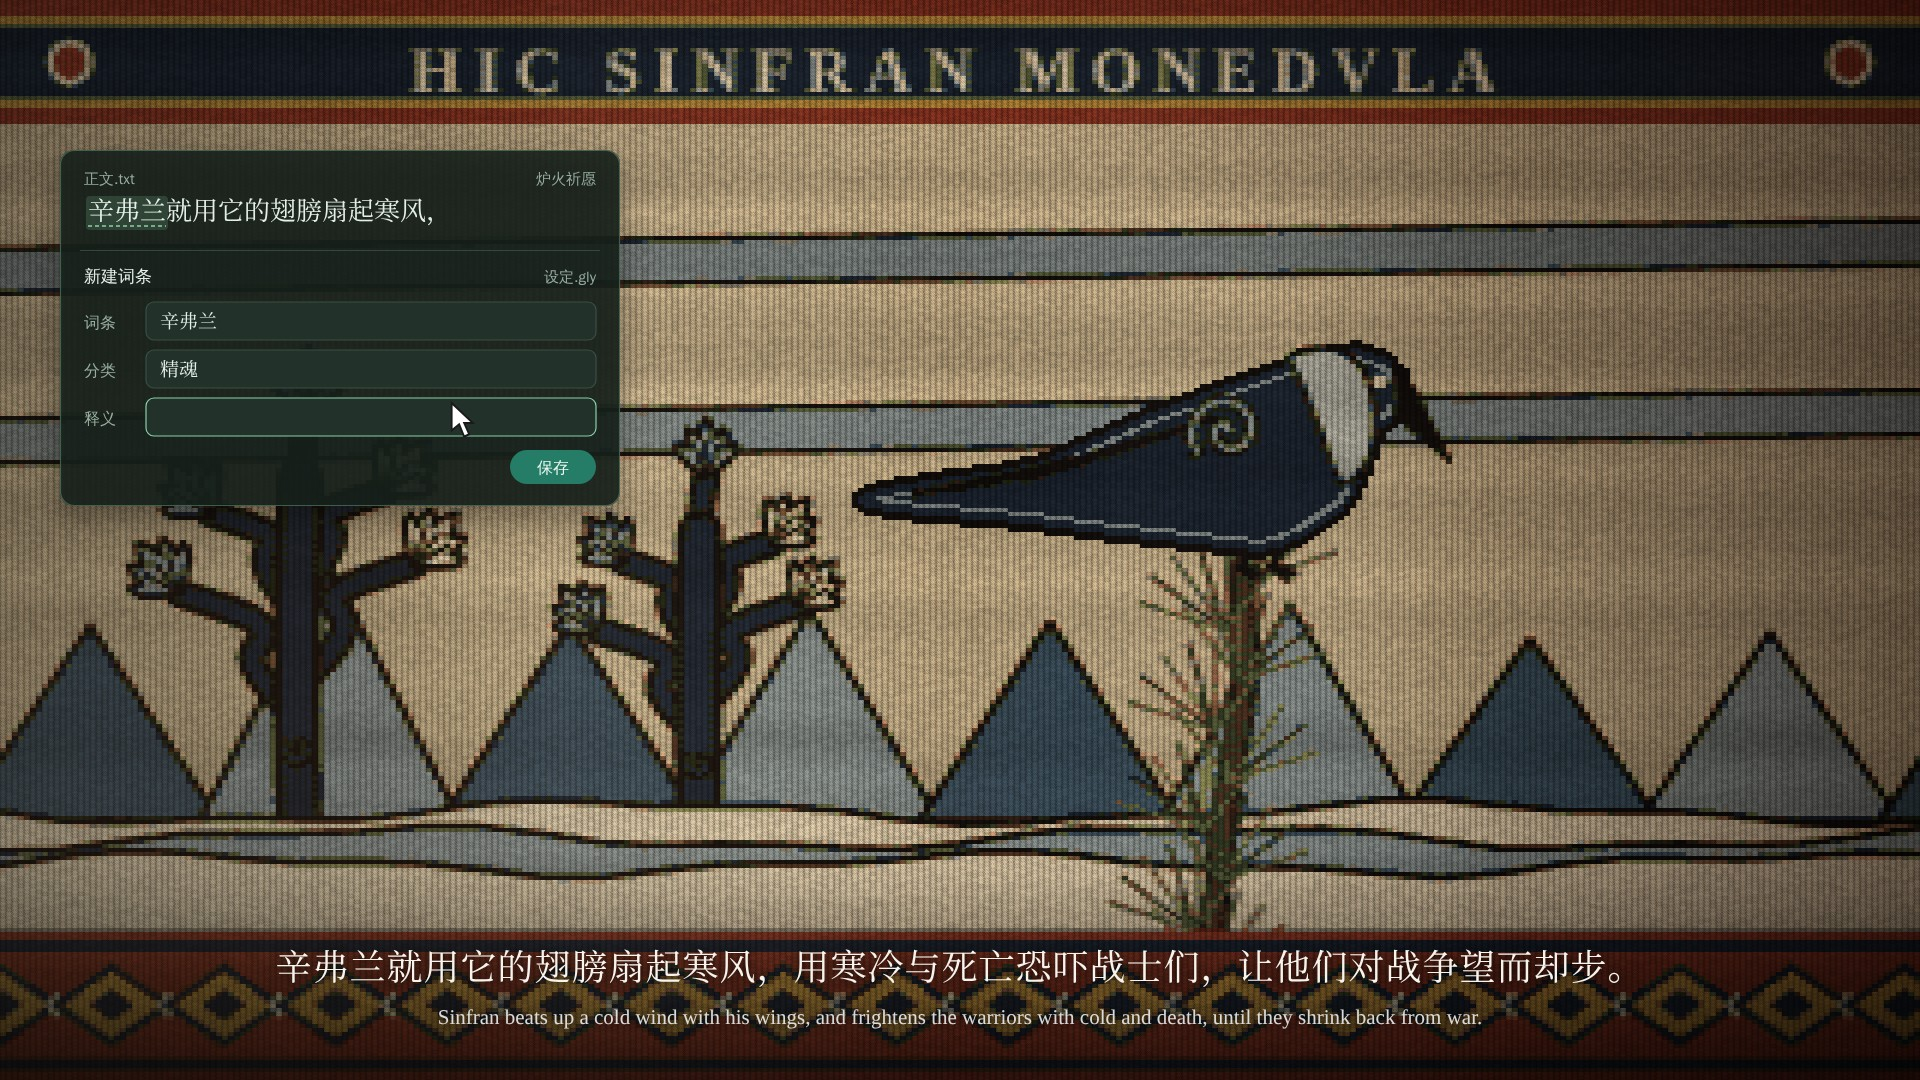
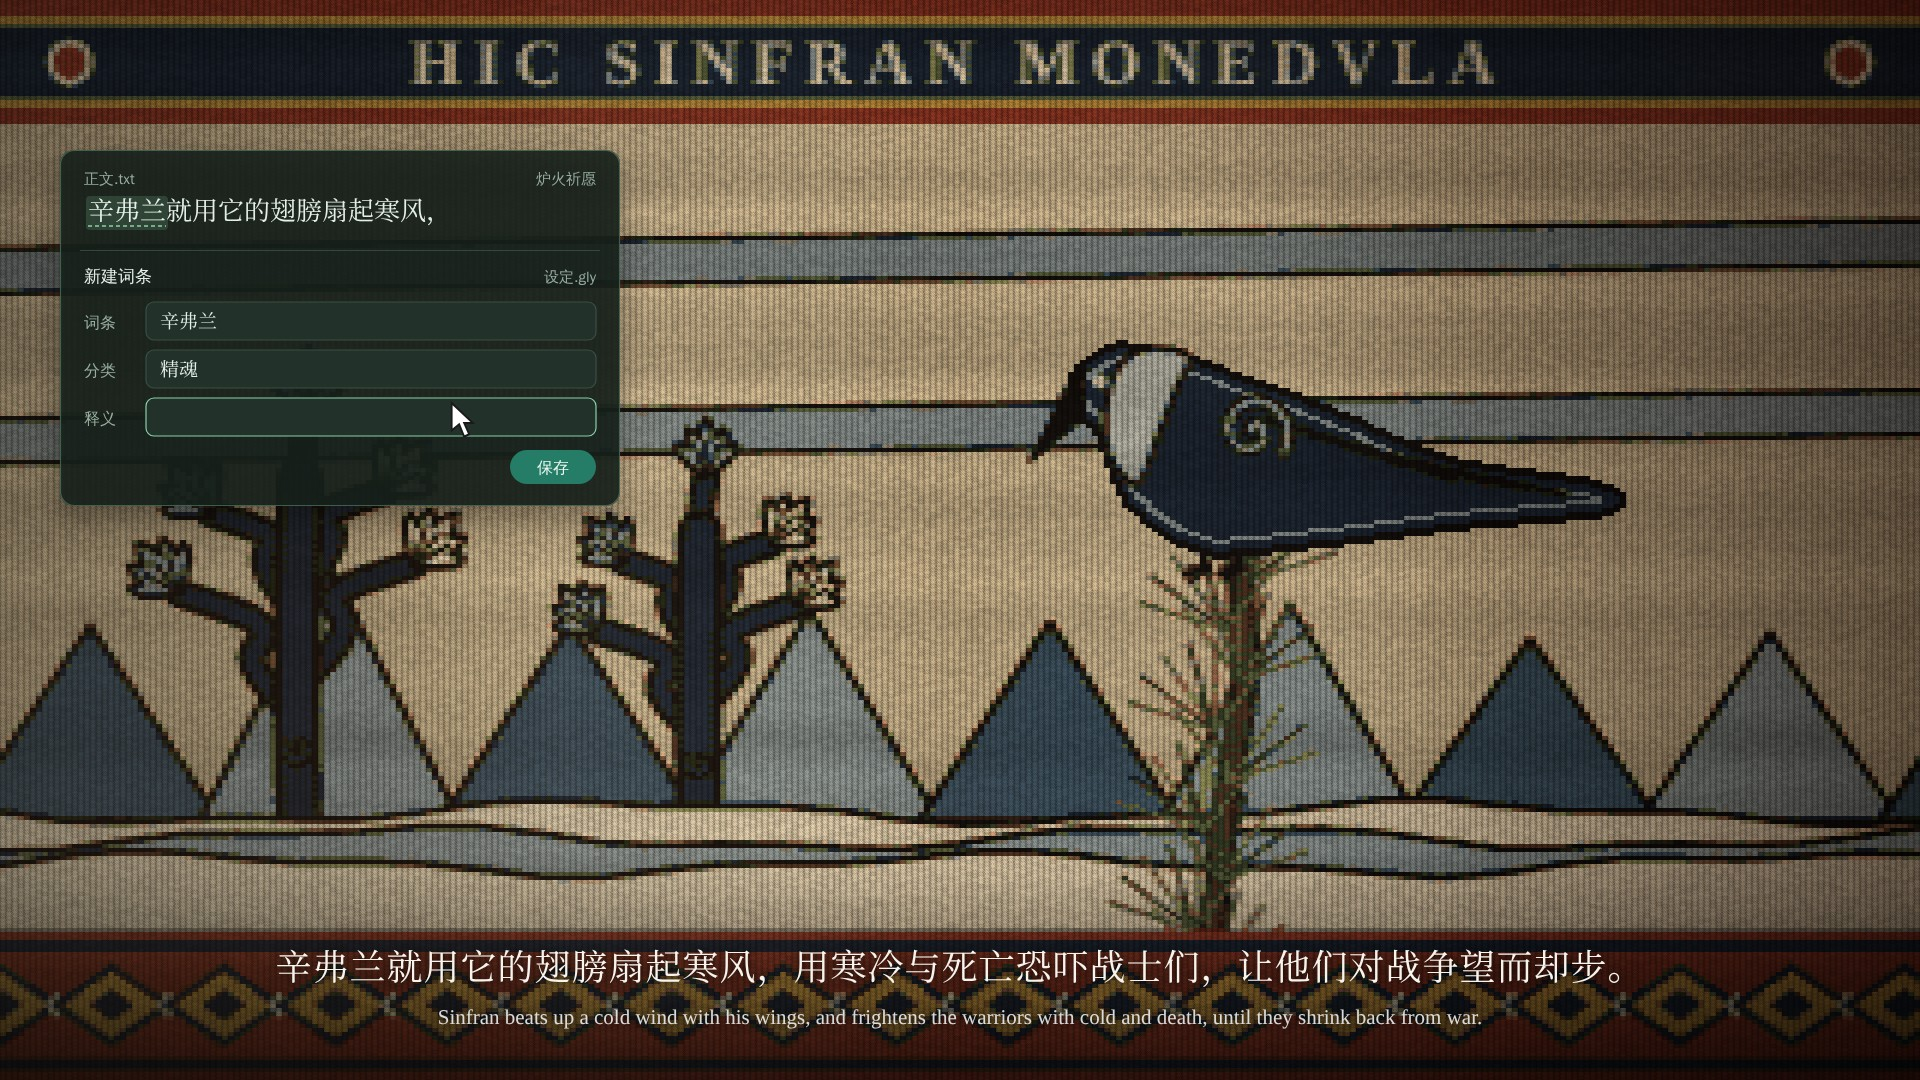
promo 0.9.9: Sinfran faces left on his treetop
Claude-Session: https://claude.ai/code/session_01KMfehctGQiHyA7uwHv9GKQ

Changed region(s): [[0.4375, 0.3056, 0.8438, 0.55], [0.2188, 0.0306, 0.7812, 0.0917]]

diff --git a/promo/0.9.9/storyboard/frames.js b/promo/0.9.9/storyboard/frames.js
@@ -77,6 +77,8 @@ function sinfran(x,y,s,{wings=0}={}){
 // the pine twig he sits on, needles in tufts as in the photograph
 function pineTwig(x,y){wcurve([x-40,H+20,x-20,y+260,x+10,y+120,x,y],16,DYE.walnut,{lw:6});
   for(let i=0;i<9;i++){const k=i/8,tx=lerp(x-40,x,k)+(i%2?-10:10),ty=lerp(y+420,y+20,k);for(let j=-3;j<=3;j++){const a=-Math.PI/2+j*.32+(i%2?-.3:.3);wline([tx,ty,tx+Math.cos(a)*90,ty+Math.sin(a)*90],j%2?DYE.green:DYE.moss,5);}}}
+// facing left: mirrored about x
+const mirrorX=(x,draw)=>{ctx.save();ctx.translate(x,0);ctx.scale(-1,1);ctx.translate(-x,0);draw();ctx.restore();};
 function wWinterSky({wind=0}={}){
   rect(0,0,W,H,DYE.wool);for(let i=0;i<2;i++){const y=250+i*170;wpoly([-40,y,W+40,y-30,W+40,y+14,-40,y+44],DYE.sky,{lw:6});}
   for(let i=0;i<9;i++){const x=i*240-40;wpoly([x,820,x+130,560+hash(i)*80,x+260,820],i%2?DYE.sky:DYE.woad,{lw:7});}
@@ -85,8 +87,8 @@ function wWinterSky({wind=0}={}){
   if(wind>0){for(let k=0;k<6;k++){const p=[];for(let i=0;i<=12;i++){const u=i/12;p.push(W-u*W*1.1,220+k*90+Math.sin(u*7+k)*30*wind);}wcurve(p,10,k%2?DYE.indigo:DYE.woad,{lw:5});}for(let i=0;i<80;i++)wFlake(hash(i*2.9)*W,150+hash(i*6.3)*660,.8+hash(i)*.6,i%3?DYE.bone:DYE.sky);}
 }
 const GLOSS_S={t0:41.2,t1:48.2,x:60,y:150,sentence:'辛弗兰就用它的翅膀扇起寒风，',term:'辛弗兰',cat:'精魂',def:'寒鸦精魂',q:.82,keepTag:false};
-frame('07a',()=>{weave(()=>{wWinterSky();pineTwig(1240,560);sinfran(1240,556,1.25);wBorderTop('HIC SINFRAN MONEDVLA',{h:124});wBorderBottom();},{seed:7,flicker:.1});grade(0);ui(()=>glossaryOverlay(45.0,GLOSS_S));caption('05');});
-frame('07b',()=>{weave(()=>{wWinterSky({wind:1});pineTwig(1240,560);sinfran(1240,556,1.25,{wings:1});wBorderTop('HIC SINFRAN VENTVM MOVET',{h:124});wBorderBottom();},{seed:7,flicker:.1});grade(0);caption('05');});
+frame('07a',()=>{weave(()=>{wWinterSky();pineTwig(1240,560);mirrorX(1240,()=>sinfran(1240,556,1.25));wBorderTop('HIC SINFRAN MONEDVLA',{h:124});wBorderBottom();},{seed:7,flicker:.1});grade(0);ui(()=>glossaryOverlay(45.0,GLOSS_S));caption('05');});
+frame('07b',()=>{weave(()=>{wWinterSky({wind:1});pineTwig(1240,560);mirrorX(1240,()=>sinfran(1240,556,1.25,{wings:1}));wBorderTop('HIC SINFRAN VENTVM MOVET',{h:124});wBorderBottom();},{seed:7,flicker:.1});grade(0);caption('05');});
 frame('08',()=>{
   weave(()=>{wWinterSky({wind:1});wBorderTop('HIC SINFRAN VENTVM MOVET',{h:124});},{seed:8,flicker:.1,light:.9});
   const edge=y=>980+Math.sin(y/70)*60+noise(y/30)*80;

diff --git a/promo/0.9.9/film.js b/promo/0.9.9/film.js
@@ -150,13 +150,15 @@ function sinfranAt(x,y,s,ang){
   T(()=>{wspiral(-14,-150,26,DYE.black,{lw:11,dir:-1});wspiral(-14,-150,26,DYE.sky,{lw:5,dir:-1});})();
 }
 const BEATS=[44,46,48],WING=[null,.9,0,2.3]; // folded, half, raised, down
+// Sinfran is drawn facing right; on his treetop he turns to face left, towards the wind he sends over the picture
+const facingLeft=(x,draw)=>{ctx.save();ctx.translate(x,0);ctx.scale(-1,1);ctx.translate(-x,0);draw();ctx.restore();};
 const beatsDone=t=>BEATS.filter(b=>t>=b).length;
 function stripAt(t,{bear,wing}){
   // only what the camera can see; no clipping, as wFigure reads and writes the whole grid: the meadow covers the
   // strip from DIV on, and the tree there, winter on its left and spring on its right, covers the seam
   const c=stripCam(t),l=c.x-W2/c.z,r=c.x+W2/c.z;
   if(l<DIV)battleAt(t);
-  if(r>DIV-300){ctx.save();ctx.translate(BX,0);meadowAt(t);if(t<41)(bear==='roar'?bearRoarParts:bearBreathParts)(t);if(t>34)sinfranAt(PERCH[0],PERCH[1],.96,wing);ctx.restore();}
+  if(r>DIV-300){ctx.save();ctx.translate(BX,0);meadowAt(t);if(t<41)(bear==='roar'?bearRoarParts:bearBreathParts)(t);if(t>34)facingLeft(PERCH[0],()=>sinfranAt(PERCH[0],PERCH[1],.96,wing));ctx.restore();}
   if(l<DIV+300&&r>DIV-300)wTree(DIV,850,800,{seed:27,leaf:DYE.sky,leaf2:DYE.green,trunk:DYE.walnut});
 }
 // the camera along the strip: a slow push towards the tree, the pan into the meadow, the climb to the treetop

diff --git a/promo/0.9.9/storyboard.md b/promo/0.9.9/storyboard.md
@@ -146,11 +146,11 @@
 
 **镜头 07｜00:41—00:52｜寒鸦辛弗兰**
 
-![07a](storyboard/frames/07a.jpg)
+![07a](storyboard/frames/v8-07a.jpg)
 ![07b](storyboard/frames/v8-07.jpg)
 
 - **画面：**
-  1. 修长的寒鸦停在这棵高树的树梢上，颈部一圈浅色领羽。铭文“HIC SINFRAN MONEDVLA”。
+  1. 修长的寒鸦停在这棵高树的树梢上，面朝左，颈部一圈浅色领羽。铭文“HIC SINFRAN MONEDVLA”。
   2. 双翅高举，铭文换成“HIC SINFRAN VENTVM MOVET”。
 - **动态：** 三次振翅各重织一个姿态，落在鼓点上。每扇一次，寒风就大一级：
   - 从右往左吹的风带更多、更宽、更快；
